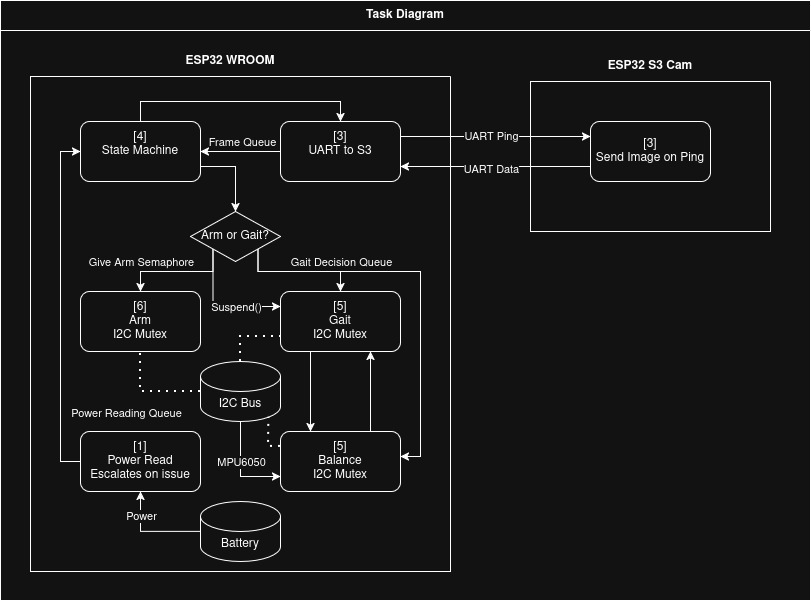
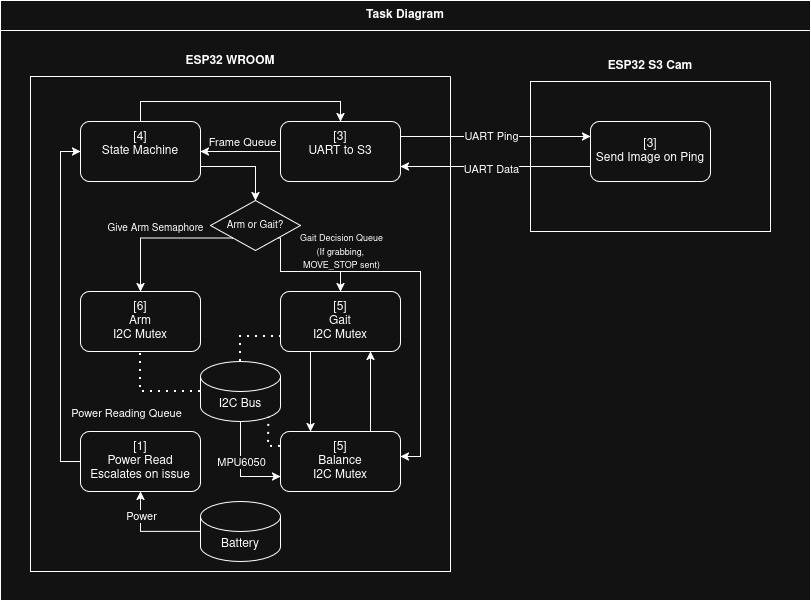
chore: improve code structure for readability and maintainability

Changed region(s): [[0.1233, 0.2995, 0.3699, 0.4792], [0.3391, 0.3894, 0.4932, 0.4493], [0.2774, 0.5092, 0.3391, 0.5391]]

diff --git a/README.md b/README.md
@@ -85,7 +85,7 @@ Tasks were assigned based on what needs to run concurrently. Priorities reflect 
 
 ```c
 QueueHandle_t     xFrameQueue;         // depth=1, stale frames are worse than no frames
-QueueHandle_t     xPowerQueue;         // depth=4
+QueueHandle_t     xPowerQueue;         // depth=3
 SemaphoreHandle_t xArmSemaphore;       // binary, arm wakes only when state machine signals
 SemaphoreHandle_t xI2CMutex;           // binary, guards PCA9685 bus
 TaskHandle_t      xUartCamTaskHandle;  // direct notify via cam ping
